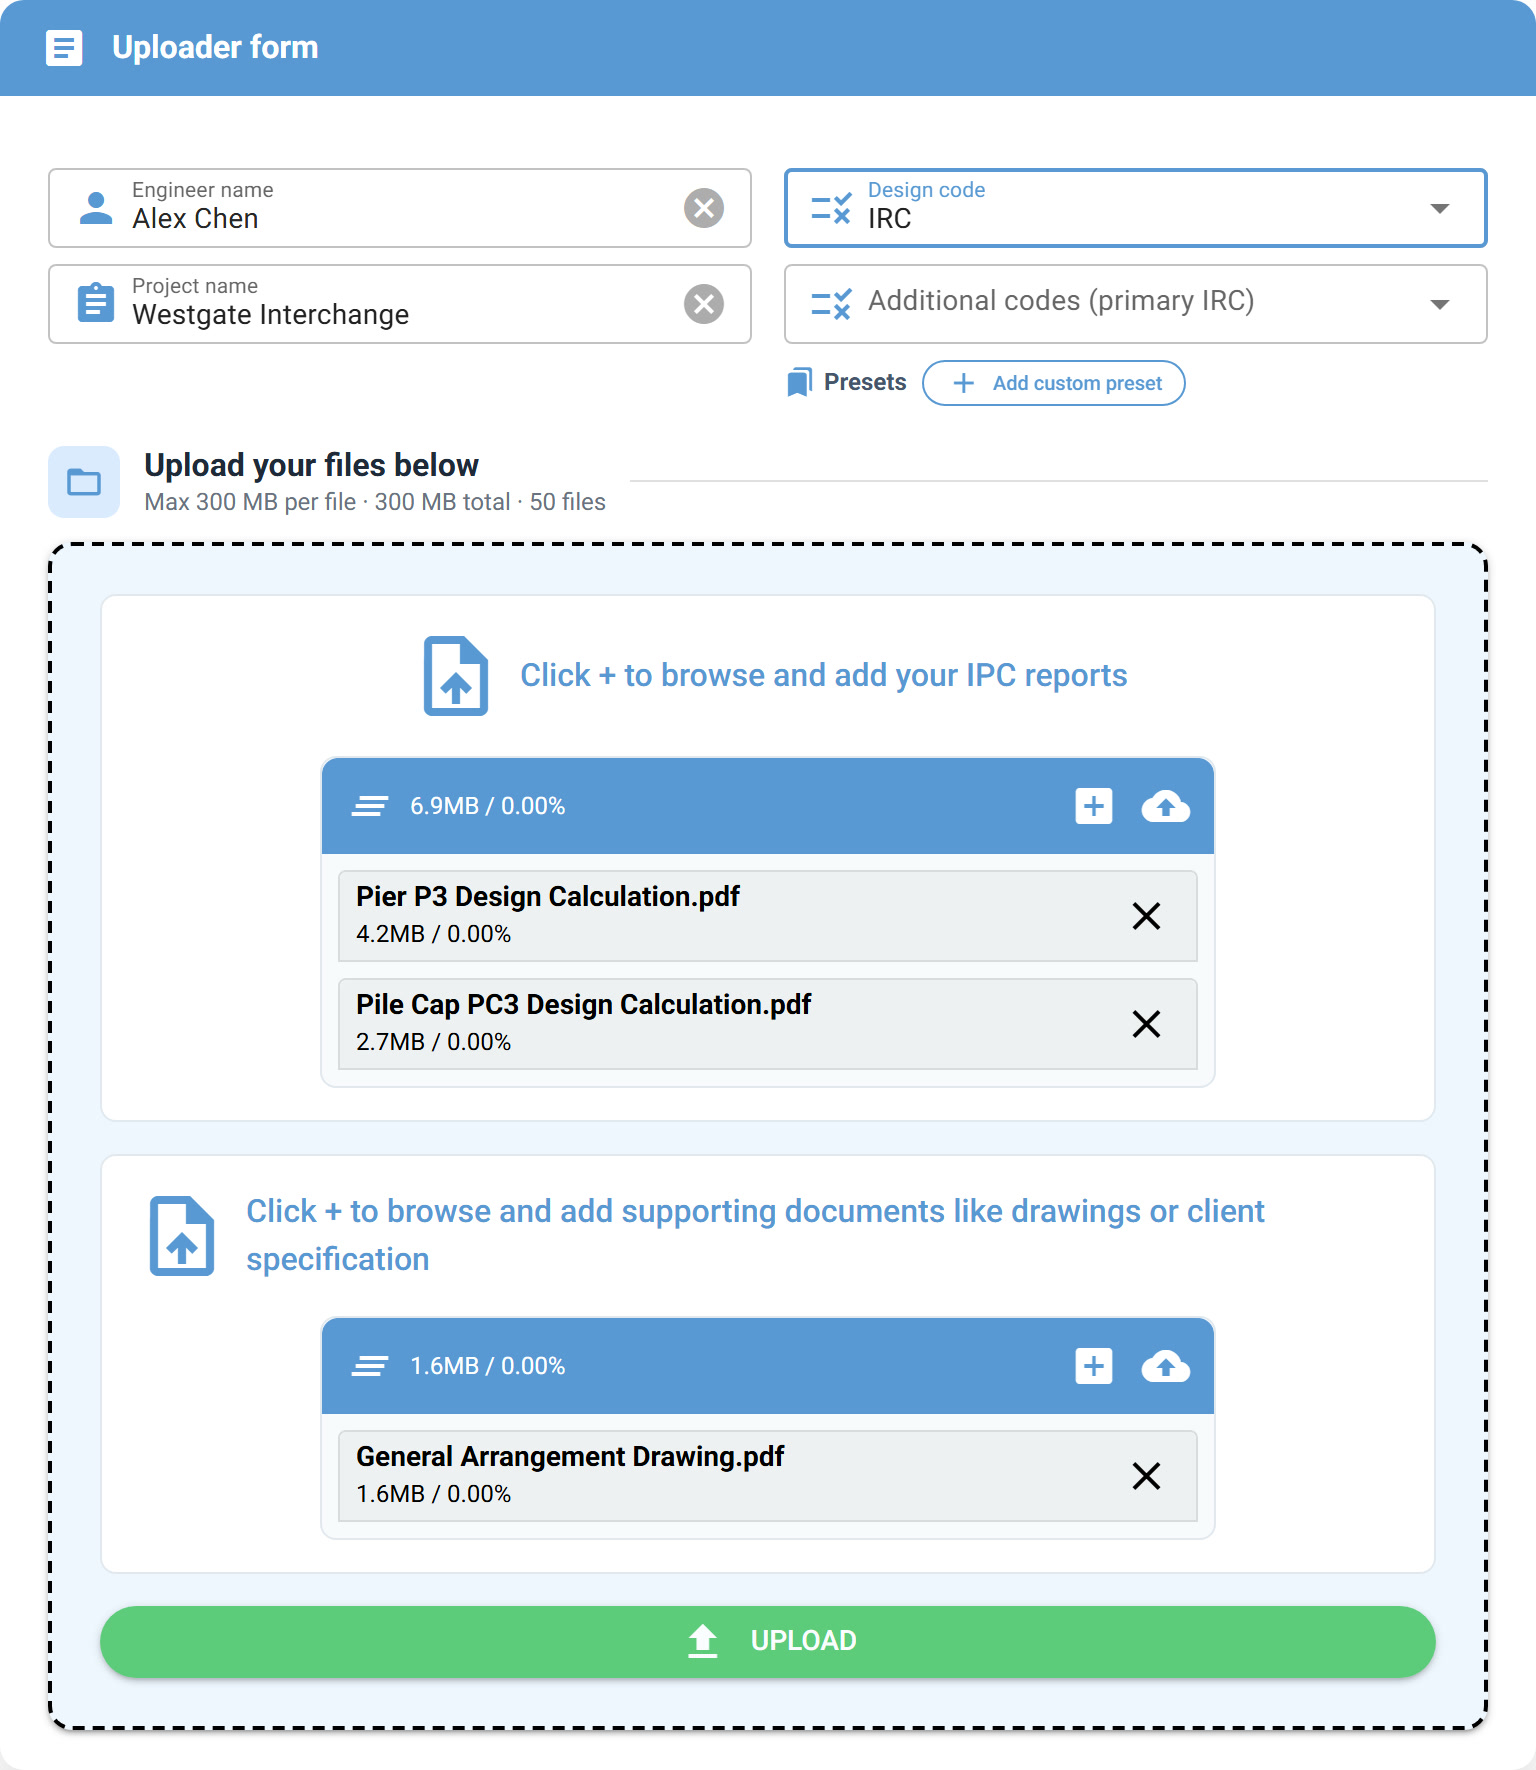
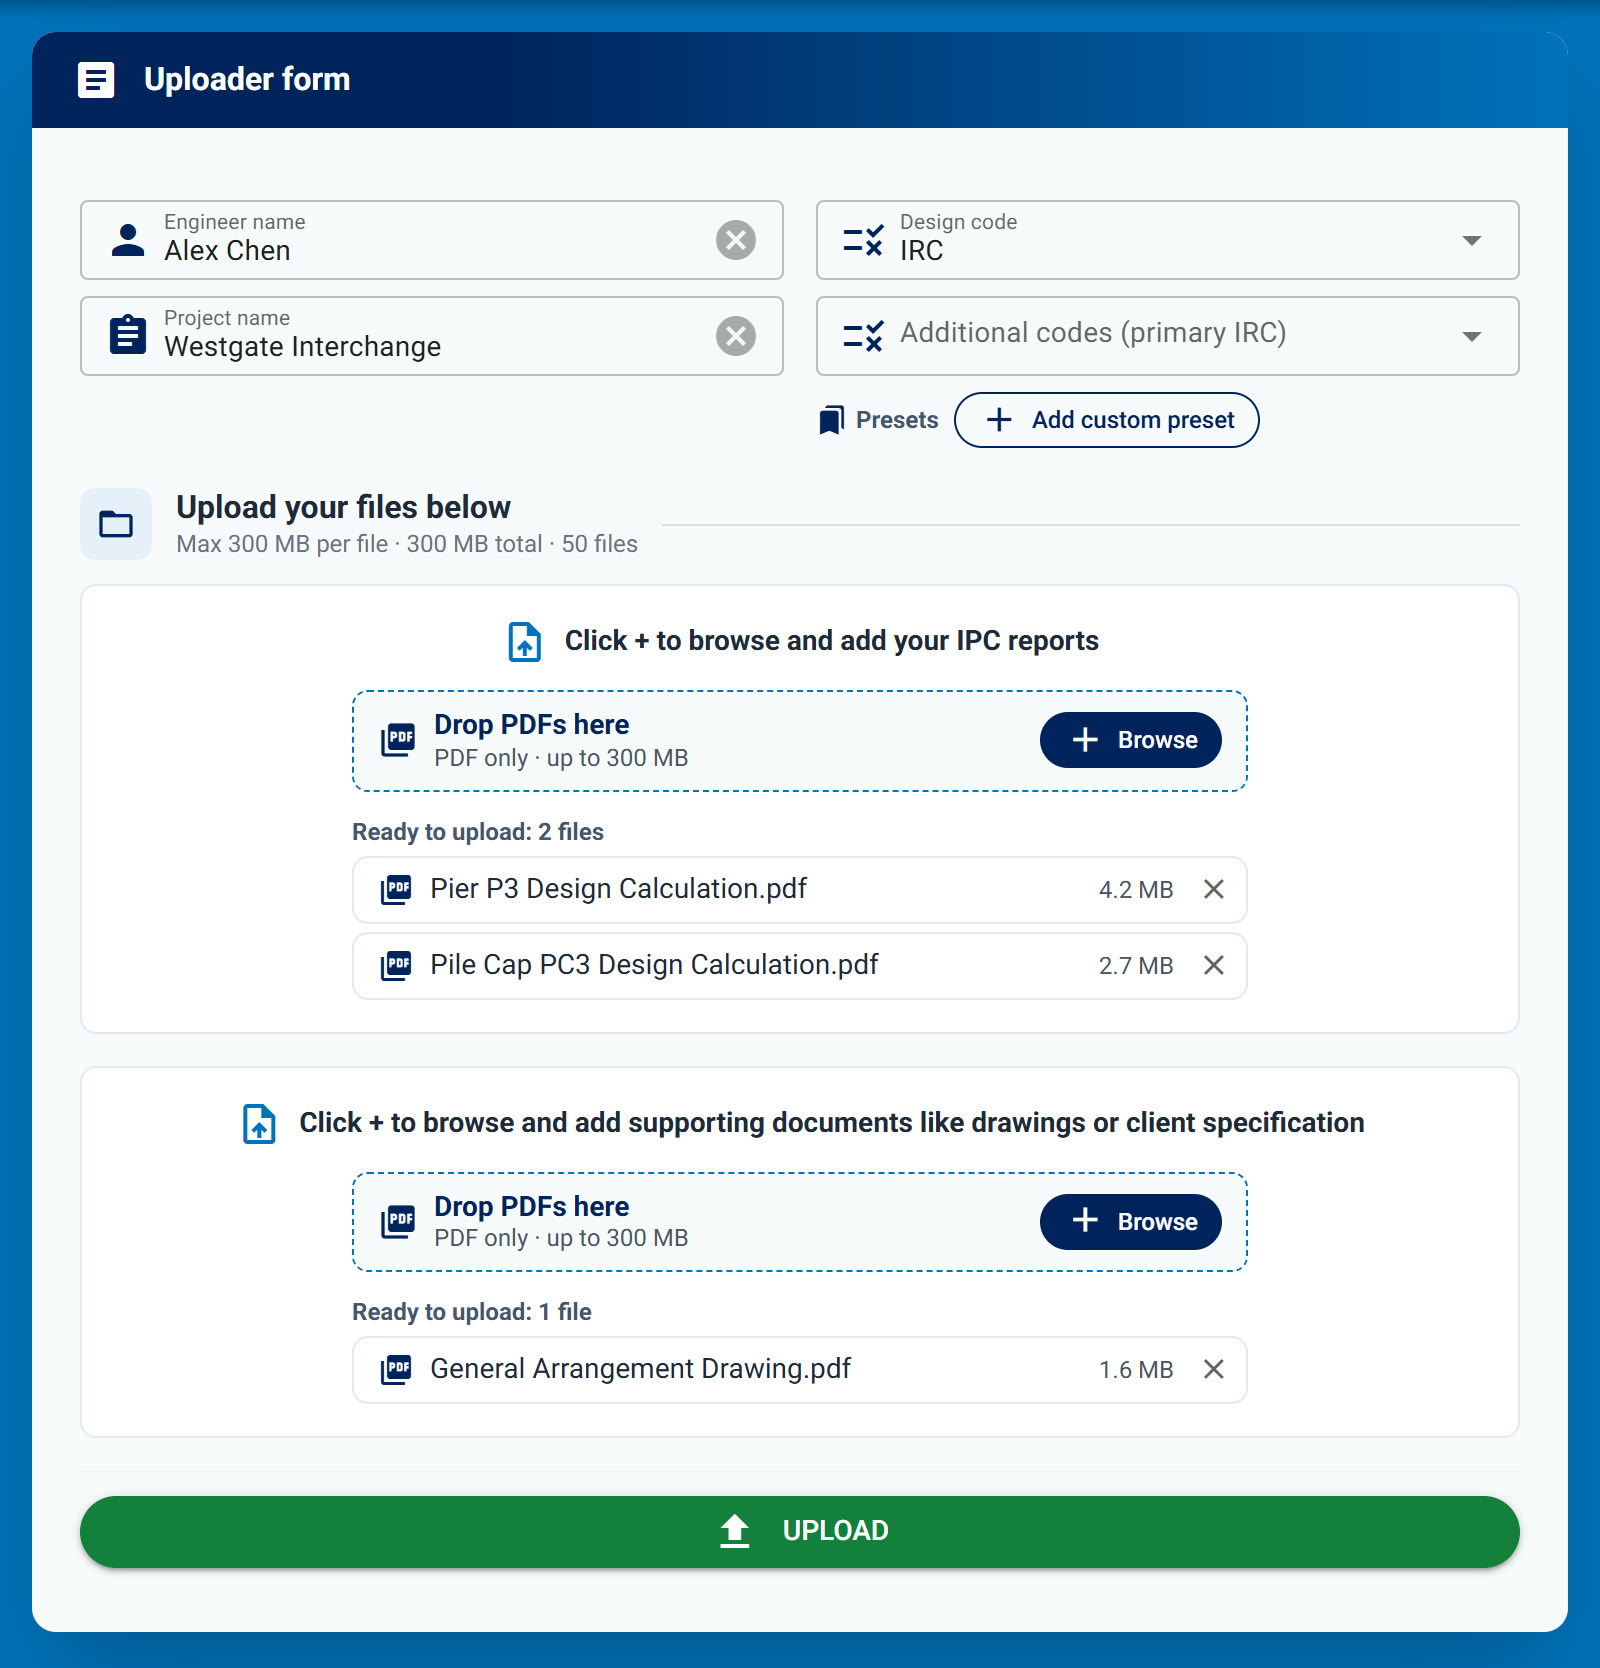
Show the 3.0.0 look in the screenshots; install with Setup.exe

diff --git a/README.md b/README.md
@@ -88,7 +88,7 @@ The app checks that the zip arrived before it clears your files. If sending fail
 Uploads and downloads go over FTP, so the app works from offices where the server's shared folder can't be opened directly. PDFs up to 300 MB each are accepted.
 
 **7.** ![Double-click to start](https://img.shields.io/badge/Double--click_to_start-b45309?style=flat-square)
-Engineers start it with one `.bat` file. On first use it sets up uv, then starts the app on the local machine with no console window and opens it in the browser. Closing the tab stops it. The desktop icon shows the installed version.
+Engineers install it with one `Setup.exe` from the office share: no admin rights, an icon on the desktop and in the Start menu, and their settings and presets kept on updates. The icon sets up uv on first use, then starts the app on the local machine with no console window and opens it in the browser. Closing the tab stops it. The desktop icon shows the installed version.
 
 **8.** ![Queue dashboard](https://img.shields.io/badge/Queue_dashboard-b45309?style=flat-square)
 A separate **IPC Check Queue** page runs on its own computer as an office screen, so the whole team can see who is waiting, whose report is being checked and what has finished. See [05. Queue dashboard](#05-queue-dashboard).
@@ -179,7 +179,7 @@ A real upload leaves the line when its result is in the Outbox, not after a set 
 
 ![Submitting a report for checking](https://img.shields.io/badge/submitting_a_report_for_checking-16235c?style=flat-square)
 
-1. **Start the app.** Double-click `IPC Uploader.bat`; it opens in the browser.
+1. **Start the app.** Double-click the IPC Uploader icon on the desktop; it opens in the browser.
 2. **Fill in the form.** Engineer name, project name, design code and the code documents, or load a preset.
 3. **Add the files.** Drop in the report PDFs and, if there are any, the supporting documents (drawings, client specification).
 4. **Upload.** The app zips everything, sends it to the Inbox, confirms it arrived and opens the Uploads list.
